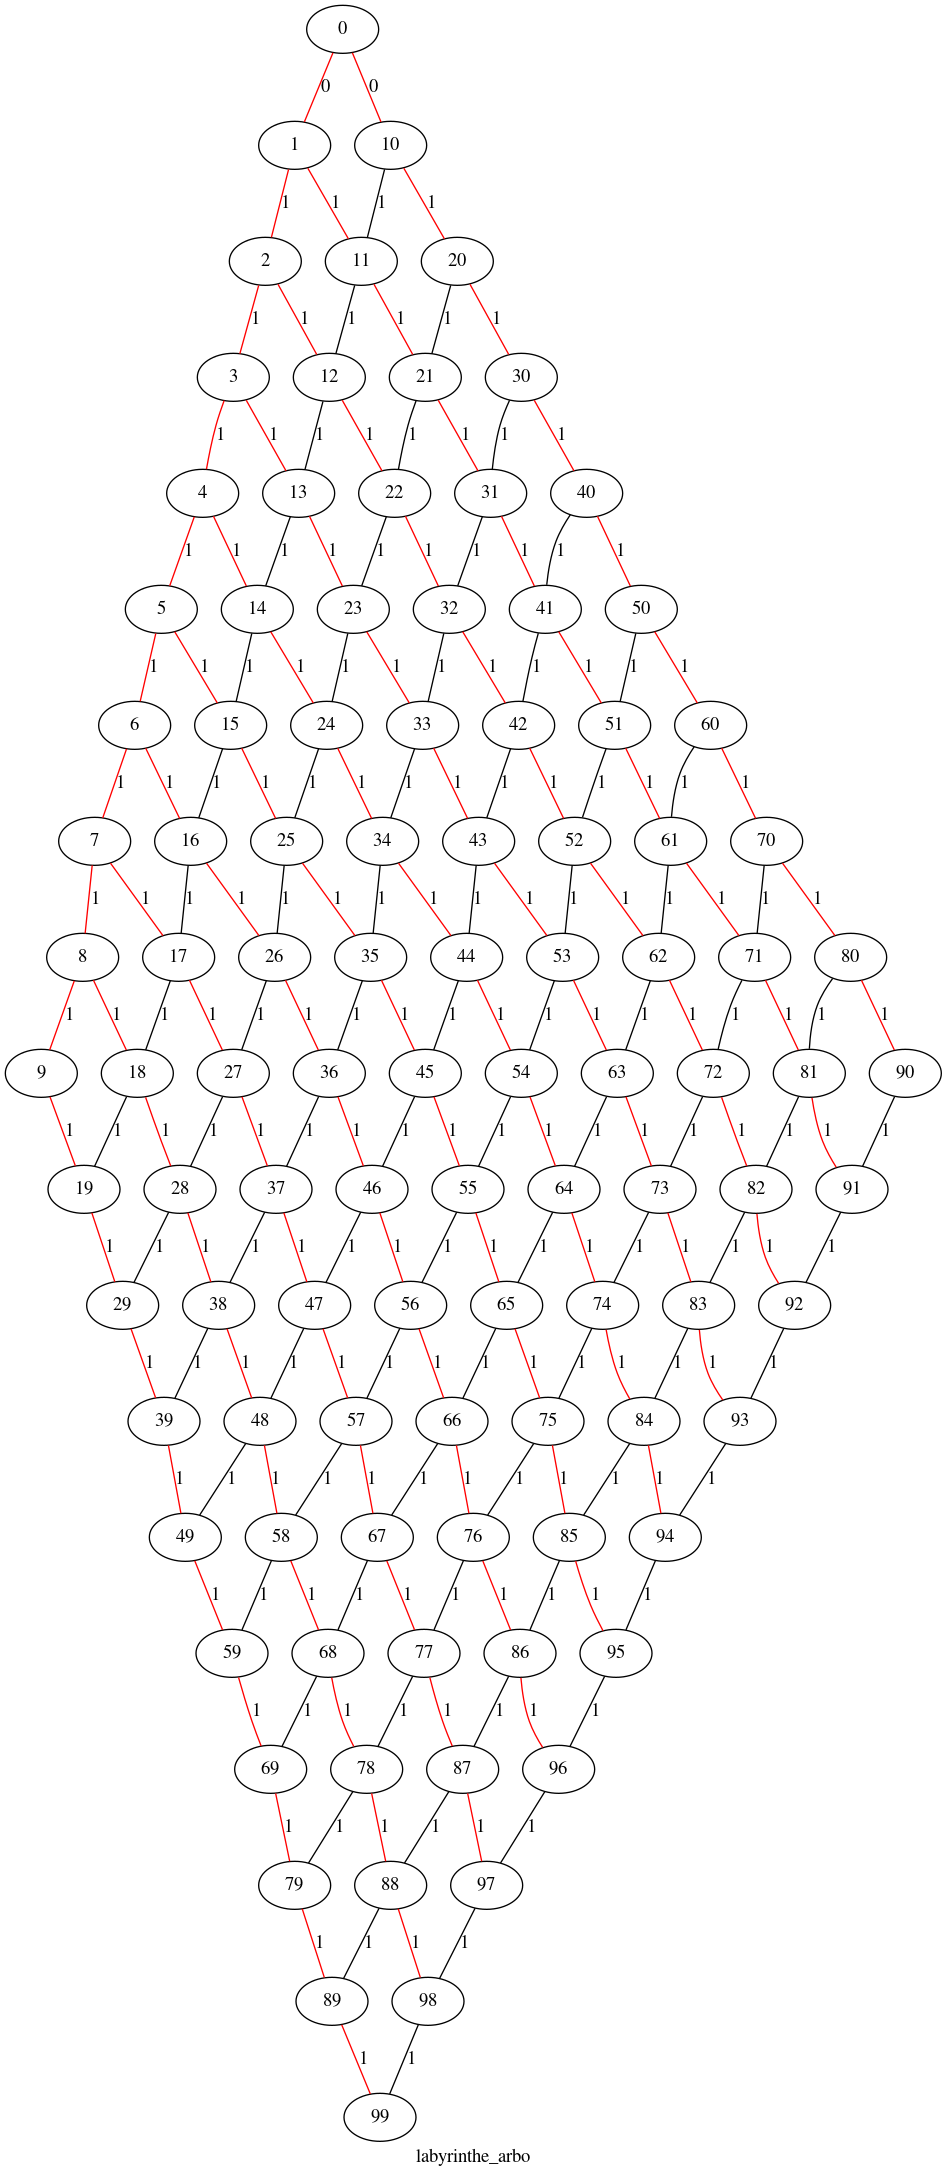
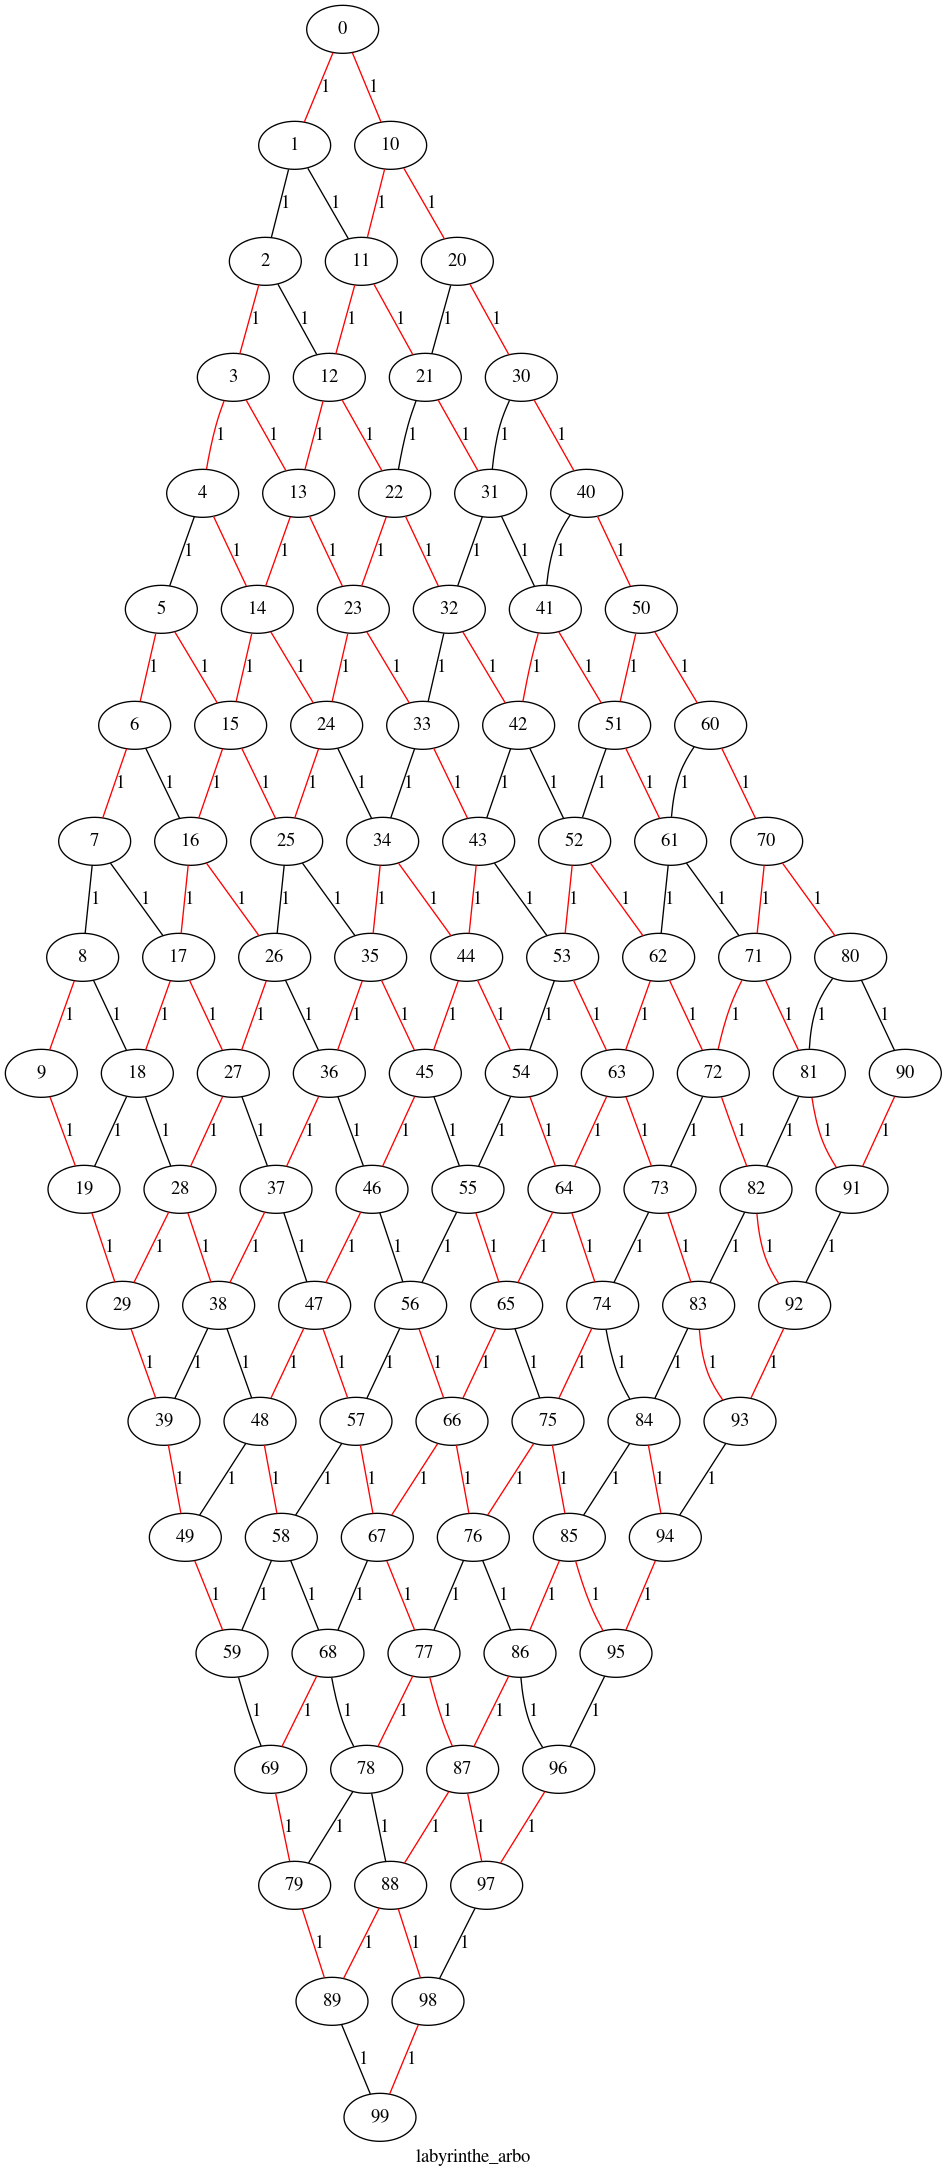
GraphToMatrice working

diff --git a/partition_labyrinthes/src/labyrinthe_arbo.c b/partition_labyrinthes/src/labyrinthe_arbo.c
@@ -1,4 +1,5 @@
 #include "labyrinthe_arbo.h"
+#include "matrice.h"
 /*
 void genererLabyrinthe(laby, nblignes) {
 	int sizeligne = 20;
@@ -11,7 +12,7 @@ void genererLabyrinthe(laby, nblignes) {
 
 void genererGrapheLabyrinthe(couples_graphe_t *graphe, int size)
 {
-    int i, nbAretes = 0, deb, fin, j = 2;
+    int i, j = 2;
     graphe->nbNoeuds = size*size;
     graphe->nbAretes = graphe->nbNoeuds* 2 - (size * 2) ;
     graphe->aretes = (arete_t *)malloc(graphe->nbAretes * sizeof(arete_t));
@@ -19,8 +20,10 @@ void genererGrapheLabyrinthe(couples_graphe_t *graphe, int size)
     {
         graphe->aretes[0].noeudDeb = 0;
         graphe->aretes[0].noeudFin = 1;
+        graphe->aretes[0].poids = 1;
         graphe->aretes[1].noeudDeb = 0;
         graphe->aretes[1].noeudFin = size;
+        graphe->aretes[1].poids = 1;
         for (i = 1; i < graphe->nbNoeuds - 1; i++)
         {
             if (((i+1)%size != 0) && (i < (size-1)*size))
@@ -59,4 +62,30 @@ void genererGrapheLabyrinthe(couples_graphe_t *graphe, int size)
     {
         puts("Error: memory allocation failed\n");
     }
+}
+
+int** arbreCouvrantToMatrice(arete_t* arbre, int nbAretes, int taille) {
+    int  ** matrice = NULL;
+    int deb, fin, l, c;
+    matrice = allocGrid(taille, taille);
+    if (matrice != NULL)
+    {
+        for (int i = 0; i < nbAretes; i++)
+        {
+            deb = arbre[i].noeudDeb;
+            fin = arbre[i].noeudFin;
+            l = deb/taille;
+            c = deb - l*taille;
+
+            if (fin == deb+1) {
+                matrice[l][c] += 4;
+            }
+            if (fin == deb + taille)
+            {
+                matrice[l][c] += 2;
+            }
+        }
+    }
+    
+    return matrice;
 }

diff --git a/partition_labyrinthes/src/matrice.c b/partition_labyrinthes/src/matrice.c
@@ -1,0 +1,70 @@
+#include "matrice.h"
+
+/**
+ * @brief Libere une matrice d'entiers
+ * 
+ * @param grid matrice d'entier
+ * @param n nombre de lignes de la matrice
+ */
+void freeGrid(int ** grid, int n)
+{
+    int     i;
+
+    for(i=0; i < n; i++)
+    {
+        free(grid[i]);
+    }
+    free(grid);
+}
+
+/**
+ * @brief Alloue l'espace pour une matrice d'entiers de taille n*m
+ * 
+ * @param n nombre de lignes
+ * @param m nombre de colonnes
+ * @return int** 
+ */
+int ** allocGrid(int n, int m)
+{
+   int  ** grid,
+            i = 0;
+
+    grid = malloc(n * sizeof(int *));
+
+    if(grid)
+    {	
+        do {
+            grid[i] = (int *)malloc(m * sizeof(int));
+	        i++;
+        } while(i < n && grid[i-1] != NULL);
+
+        if(grid[i-1] == NULL)
+        {
+            freeGrid(grid, i-1);
+            grid = NULL;
+        }
+    } 
+    return grid;
+}
+
+/**
+ * @brief Affiche la matrice dans le terminal
+ * 
+ * @param grid matrice d'entiers
+ * @param n nombre de lignes
+ * @param m nombre de colonnes
+ */
+void displayGrid(int ** grid, int n, int m)
+{
+    int i,
+        j;
+    
+    for(i=0; i<n; i++)
+    {
+        for(j=0; j<m; j++)
+        {
+            printf("%d ", grid[i][j]);
+        }
+        printf("\n");
+    }
+}

diff --git a/partition_labyrinthes/src/main.c b/partition_labyrinthes/src/main.c
@@ -3,18 +3,19 @@
 #include "graphviz.h"
 #include "labyrinthe_arbo.h"
 #include "kruskal.h"
-
+#include "matrice.h"
 
 int main(void)
 {
     int n = 10, tailleLabyrintheCouvrant;
     couples_graphe_t graph;
     arete_t* labyrintheCouvrant;
+    int** matrice;
     genererGrapheLabyrinthe(&graph, n);
-    printAretes(graph);
-    //fisherYate(&graph);
-    printAretes(graph);
     labyrintheCouvrant = arbreCouvrantPoidsMin(graph, &tailleLabyrintheCouvrant);
+    matrice = arbreCouvrantToMatrice(labyrintheCouvrant, tailleLabyrintheCouvrant, n);
+    displayGrid(matrice, n, n);
+    
     drawCouplesGraph(graph, "labyrinthe_arbo", labyrintheCouvrant, tailleLabyrintheCouvrant);
 
     return 0;

diff --git a/partition_labyrinthes/src/matrice.h b/partition_labyrinthes/src/matrice.h
@@ -1,0 +1,31 @@
+#pragma once
+
+#include <stdio.h>
+#include <time.h>
+#include <stdlib.h>
+
+/**
+ * @brief Libere une matrice d'entiers
+ * 
+ * @param grid matrice d'entier
+ * @param n nombre de lignes de la matrice
+ */
+void freeGrid(int ** grid, int n);
+
+/**
+ * @brief Alloue l'espace pour une matrice d'entiers de taille n*m
+ * 
+ * @param n nombre de lignes
+ * @param m nombre de colonnes
+ * @return int** 
+ */
+int ** allocGrid(int n, int m);
+
+/**
+ * @brief Affiche la matrice dans le terminal
+ * 
+ * @param grid matrice d'entiers
+ * @param n nombre de lignes
+ * @param m nombre de colonnes
+ */
+void displayGrid(int ** grid, int n, int m);

diff --git a/partition_labyrinthes/src/kruskal.c b/partition_labyrinthes/src/kruskal.c
@@ -13,8 +13,8 @@ arete_t * arbreCouvrantPoidsMin(couples_graphe_t graph, int * tailleListe)
     listeAretes = (arete_t *)malloc(sizeof(arete_t) * graph.nbAretes);
     if(listeAretes)
     {
-        ordonnerAretesCroissant(&graph);
-        //fisherYate(&graph);
+        //ordonnerAretesCroissant(&graph);
+        fisherYate(&graph);
         partition = creer(graph.nbNoeuds);
 
         for(i = 0; i < graph.nbAretes; i++)

diff --git a/partition_labyrinthes/src/labyrinthe_arbo.h b/partition_labyrinthes/src/labyrinthe_arbo.h
@@ -1,4 +1,6 @@
 #include <stdio.h>
+#include <stdlib.h>
 #include "grapheListeAretes.h"
 
 void genererGrapheLabyrinthe(couples_graphe_t *graphe, int size);
+int** arbreCouvrantToMatrice(arete_t* arbre, int nbAretes, int taille);
